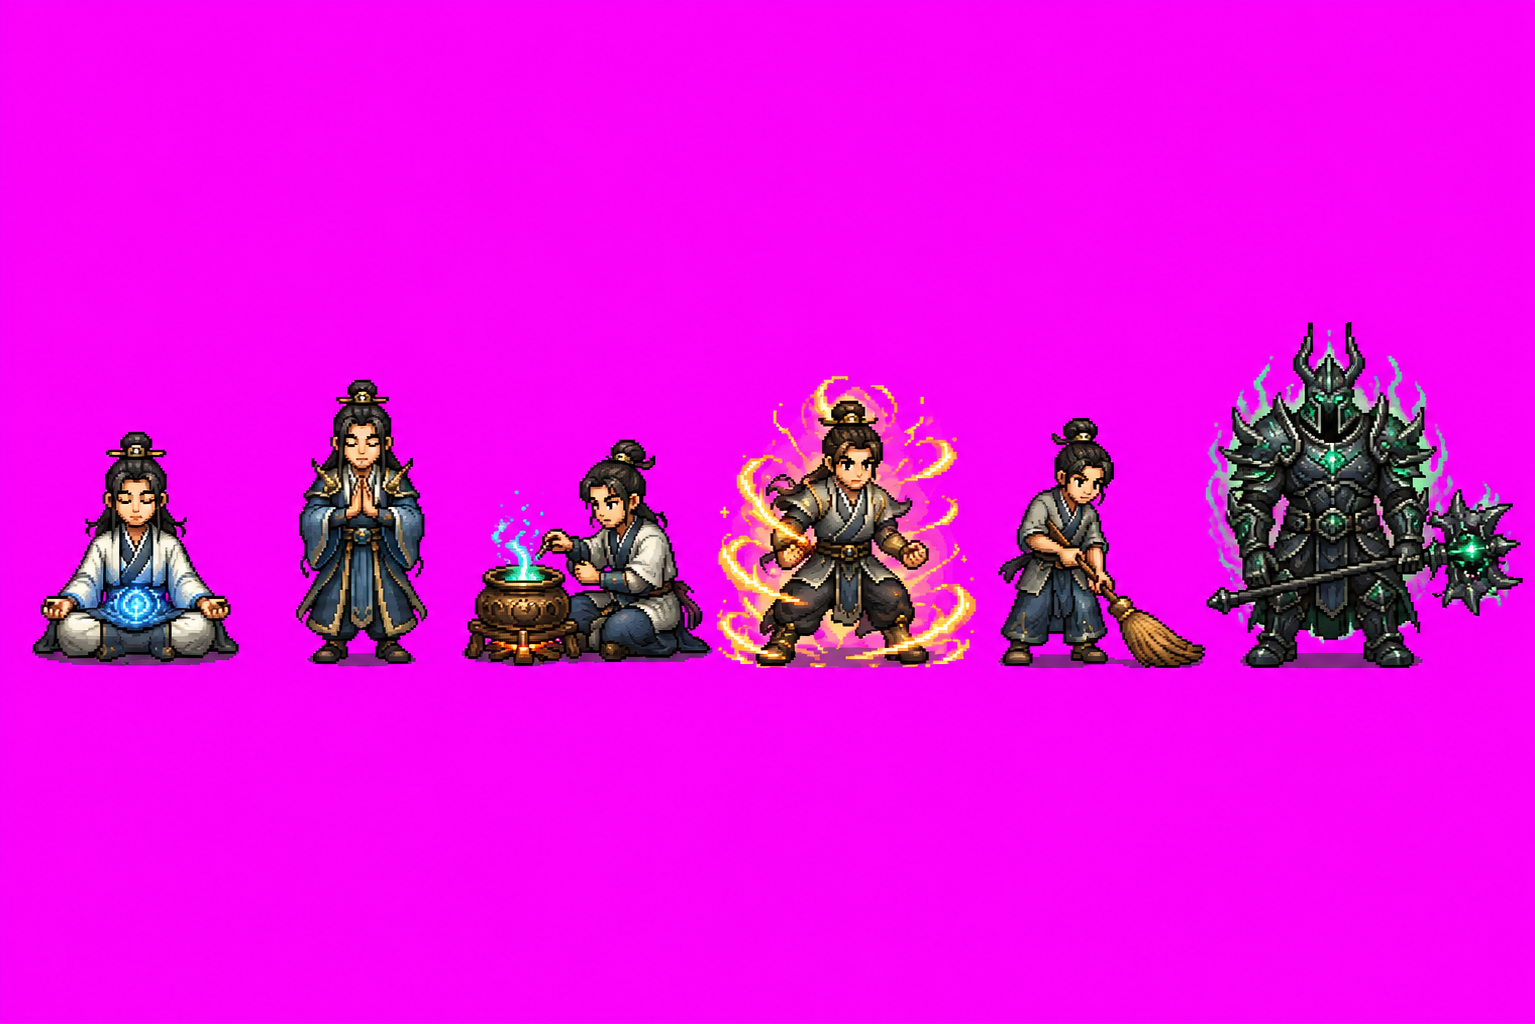
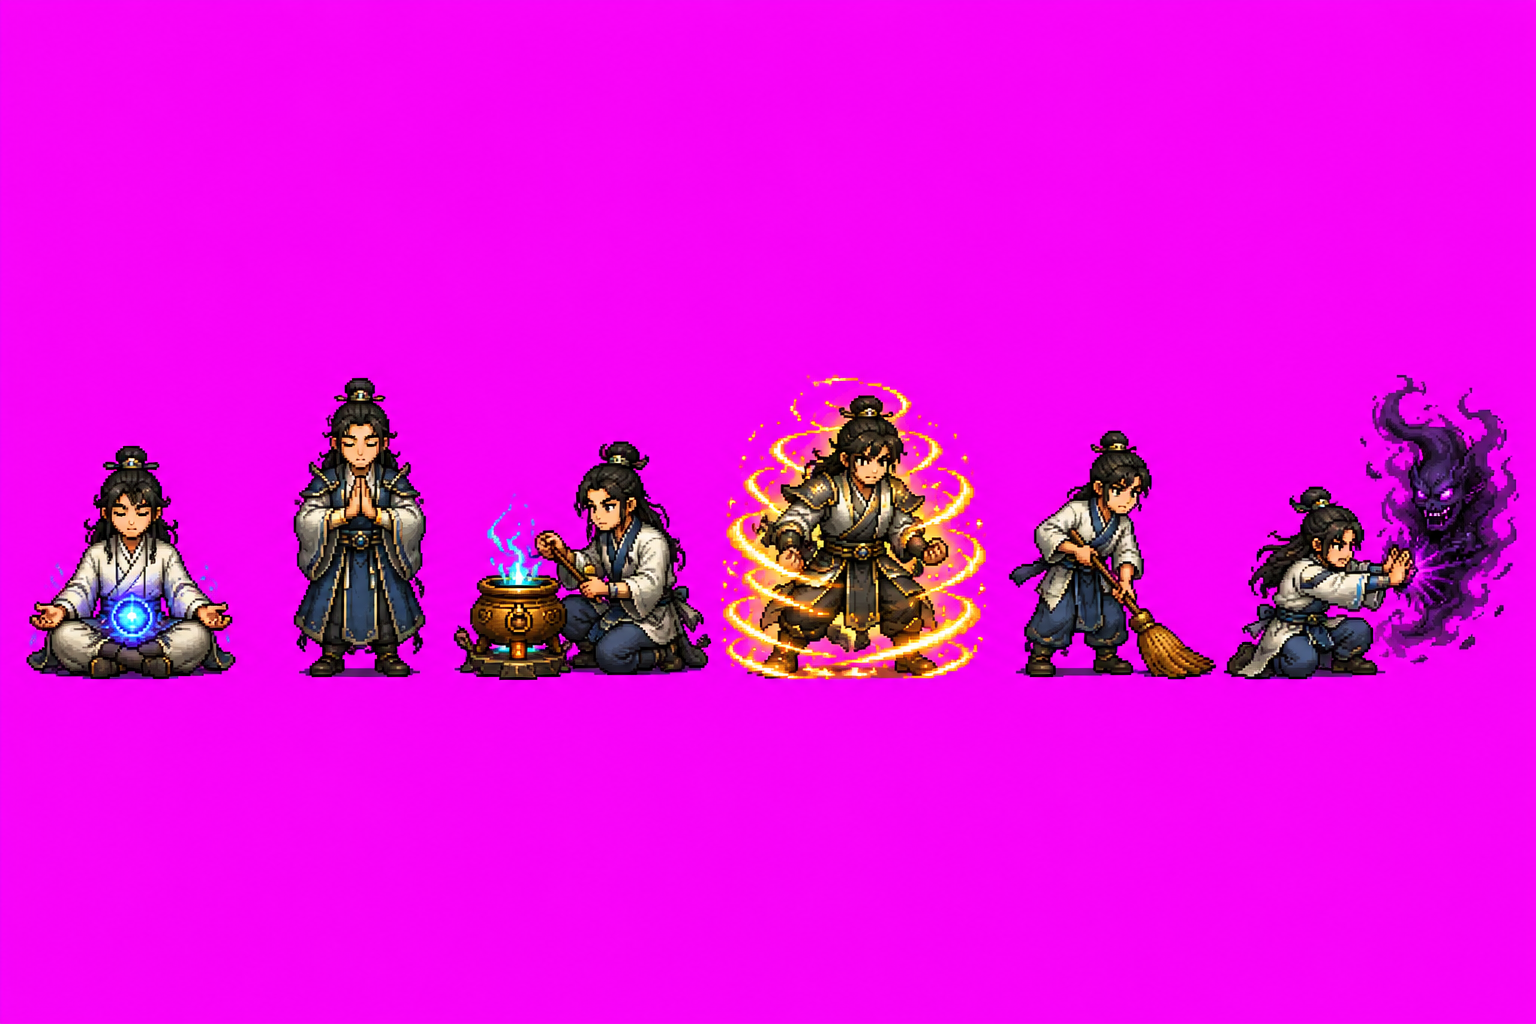
Sect Map: proper struggle sprite + keep demon as Morde's identity
Swap in the corrected agents_sheet.png whose 6th sprite is a cultivator
wrestling a dark wisp (the real qi-deviation / "struggle" figure). Preserve the
previous armored demon as a dedicated agent_demon.png so Morde (sprite: demon)
still renders as the demon while the error/struggle state now shows the
struggling cultivator. Sprite keys are now filename suffixes (agent_<key>.png),
so named sprites like `demon` resolve to their own file.

https://claude.ai/code/session_013daZ59SudAJ9TU1zUanGwQ

Changed region(s): [[0.1837, 0.3125, 1.0, 0.6875], [0.0, 0.4062, 0.1531, 0.6875]]

diff --git a/maybot_control_center/static/app.js b/maybot_control_center/static/app.js
@@ -1139,20 +1139,21 @@ function hallActivity(a) {
   const c = a.cultivation || {}, st = a.status || 'idle';
   if (c.in_roaming) return { act: 'roam', label: 'Roaming', sprite: -1 };
   if (c.in_seclusion) return { act: 'seclude', label: 'In Seclusion', sprite: 1 };
-  if (st === 'error') return { act: 'struggle', label: 'Qi Deviation', sprite: 1 };
+  if (st === 'error') return { act: 'struggle', label: 'Wrestling a Demon', sprite: 5 };
   if (c.event === 'breakthrough' && (Date.now() - (c.event_ts || 0) < 30000)) return { act: 'breakthrough', label: 'Breaking Through', sprite: 3 };
   if (st === 'working' || st === 'queued') return { act: 'cultivate', label: 'Cultivating', sprite: 0 };
   return { act: 'sweep', label: 'Tending the Hall', sprite: 4 };
 }
-const SPRITE_NAMES = { cultivate: 0, meditate: 1, seclude: 1, refine: 2, breakthrough: 3, sweep: 4, struggle: 5, demon: 5 };
+// sprite keys → filename suffix in /assets/map/sprites/agent_<key>.png
+const SPRITE_NAMES = { cultivate: 0, meditate: 1, seclude: 1, refine: 2, breakthrough: 3, sweep: 4, struggle: 5, demon: 'demon' };
 // A disciple may pin a fixed sprite (agents.yaml `sprite: demon`); else use the activity sprite.
 function spriteFor(a, ax) {
   const ov = a && a.sprite;
-  if (ov !== null && ov !== undefined && ov !== '') return typeof ov === 'number' ? ov : (SPRITE_NAMES[ov] ?? ax.sprite);
-  return ax.sprite;
+  if (ov !== null && ov !== undefined && ov !== '') { const k = SPRITE_NAMES[ov]; return String(k !== undefined ? k : ov); }
+  return String(ax.sprite >= 0 ? ax.sprite : 0);
 }
-function hallUnitInner(act, idx) {
-  return `<span class='hall-sprite act-${act}'><img src='/assets/map/sprites/agent_${idx >= 0 ? idx : 0}.png' alt='' draggable='false'></span>`;
+function hallUnitInner(act, key) {
+  return `<span class='hall-sprite act-${act}'><img src='/assets/map/sprites/agent_${key}.png' alt='' draggable='false'></span>`;
 }
 function hallPositions(k) {
   const out = [], cx = 50, baseY = 60, spread = Math.min(72, 16 + k * 9);
